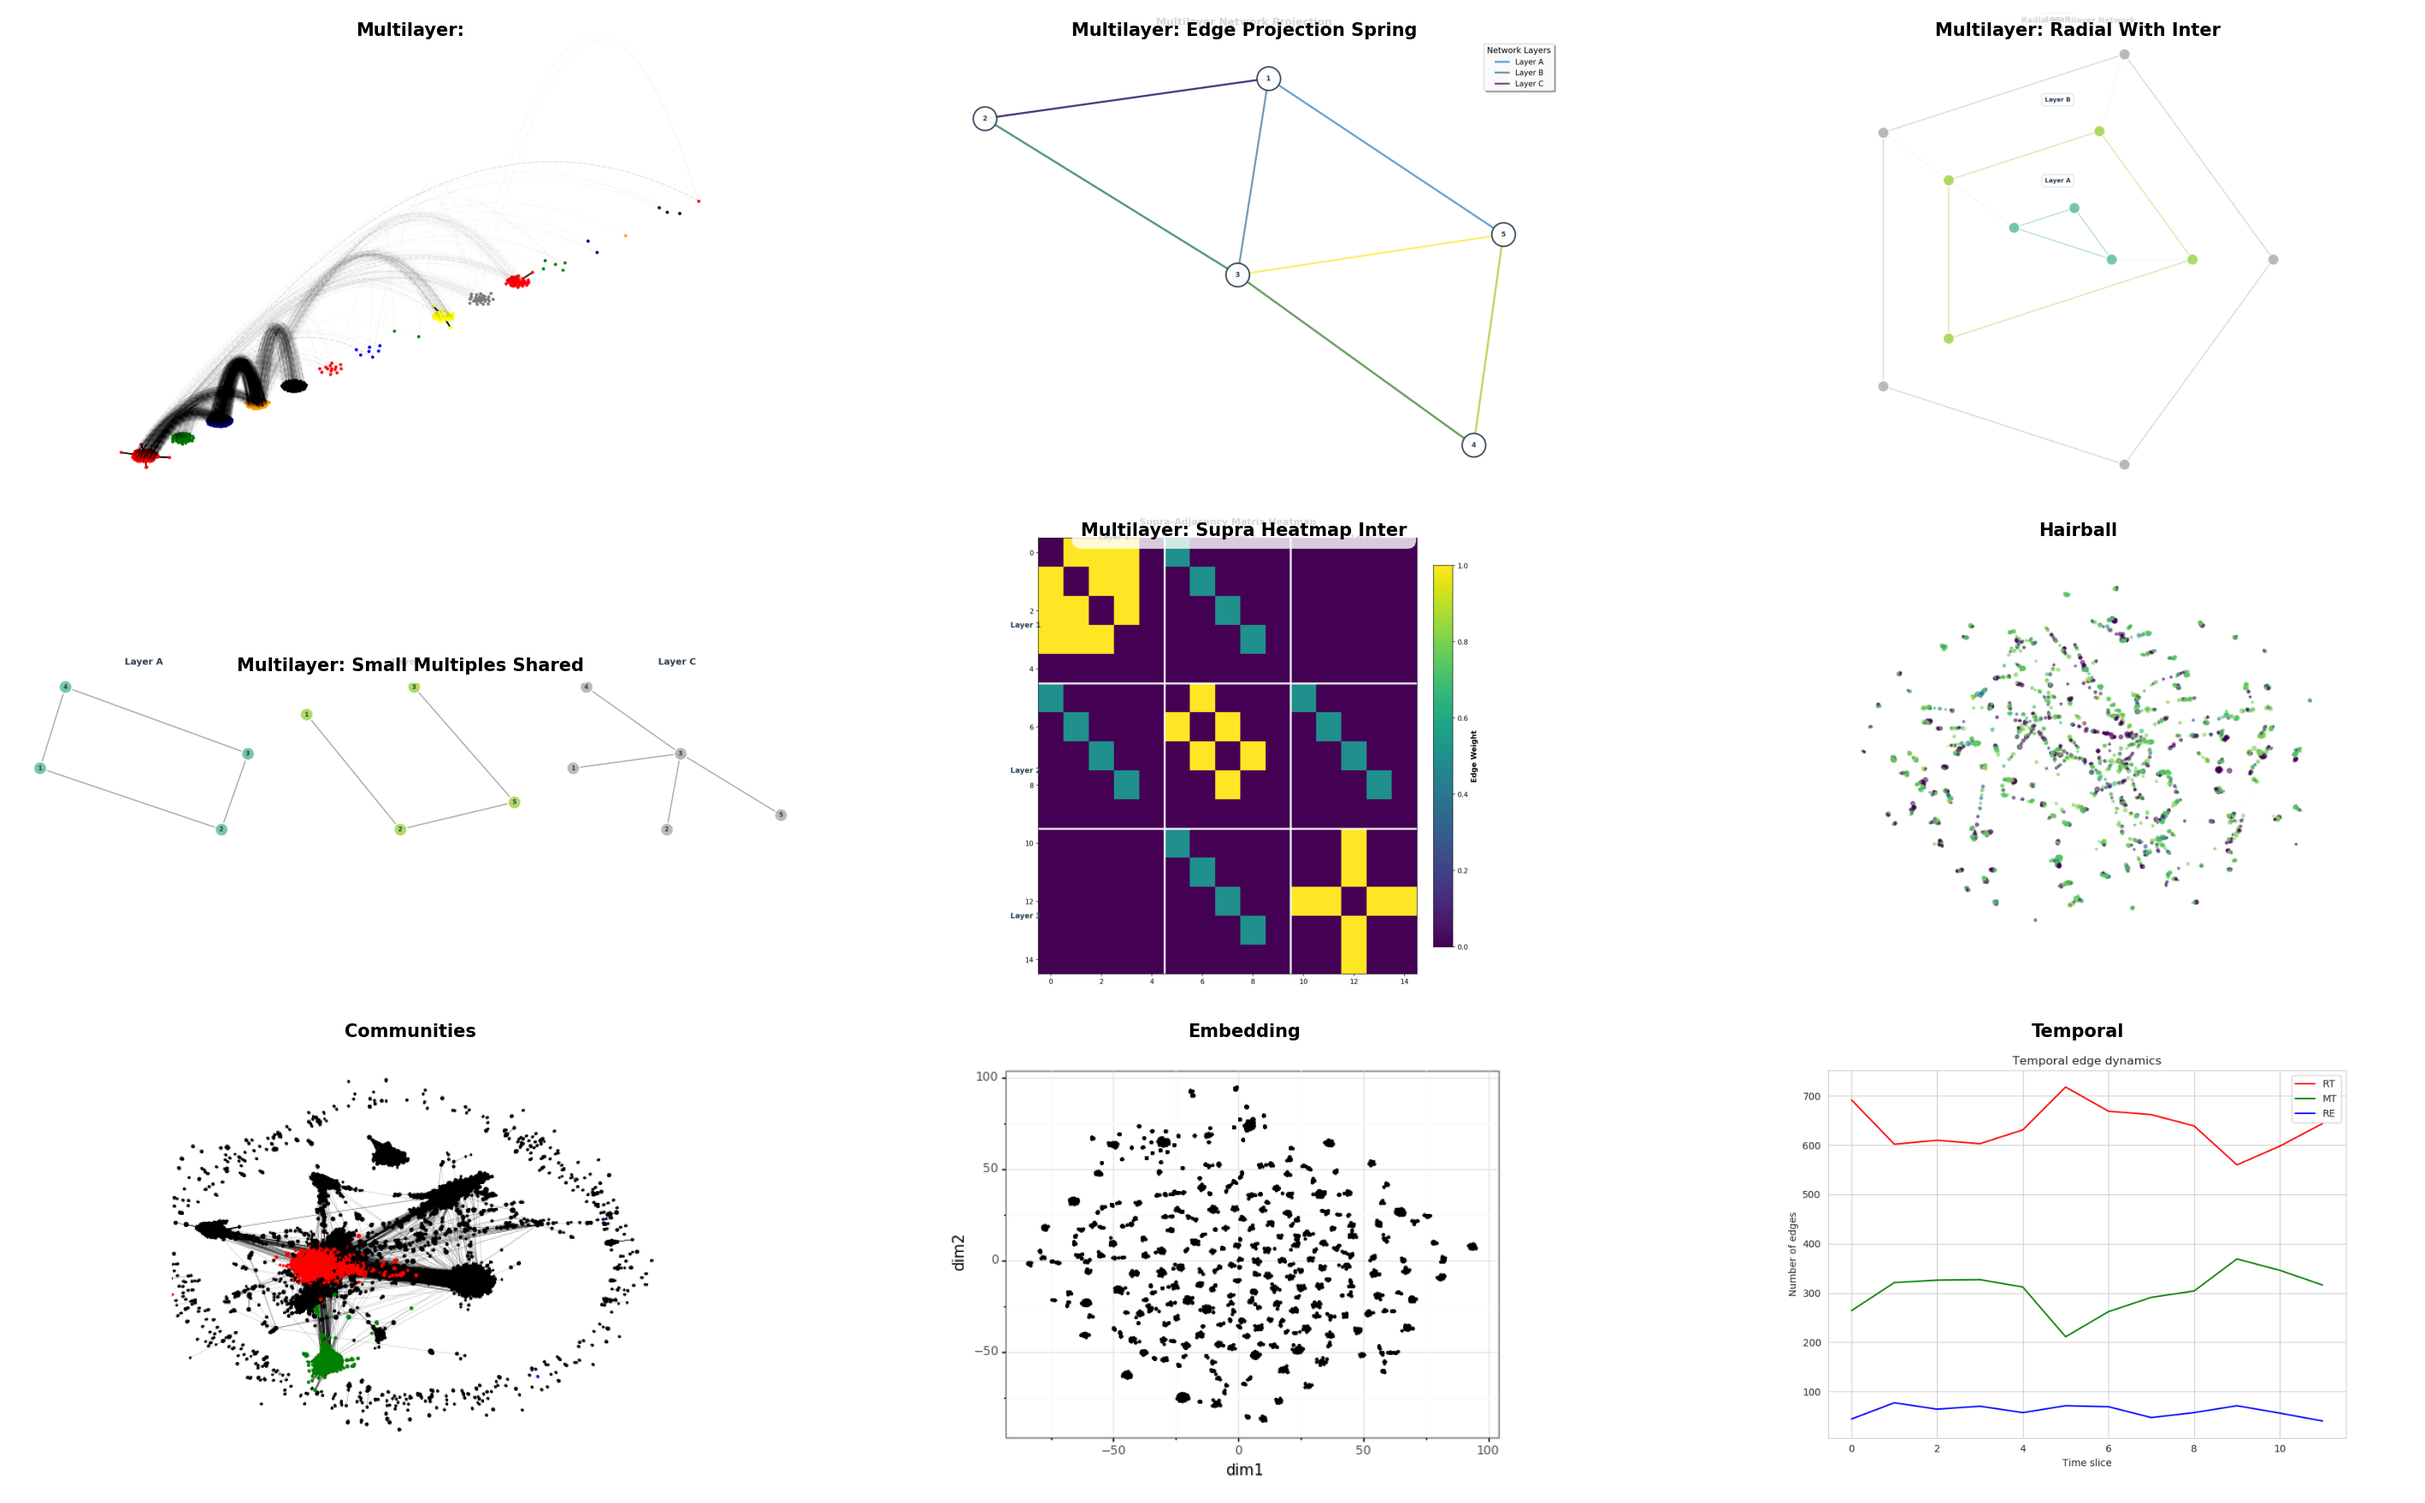
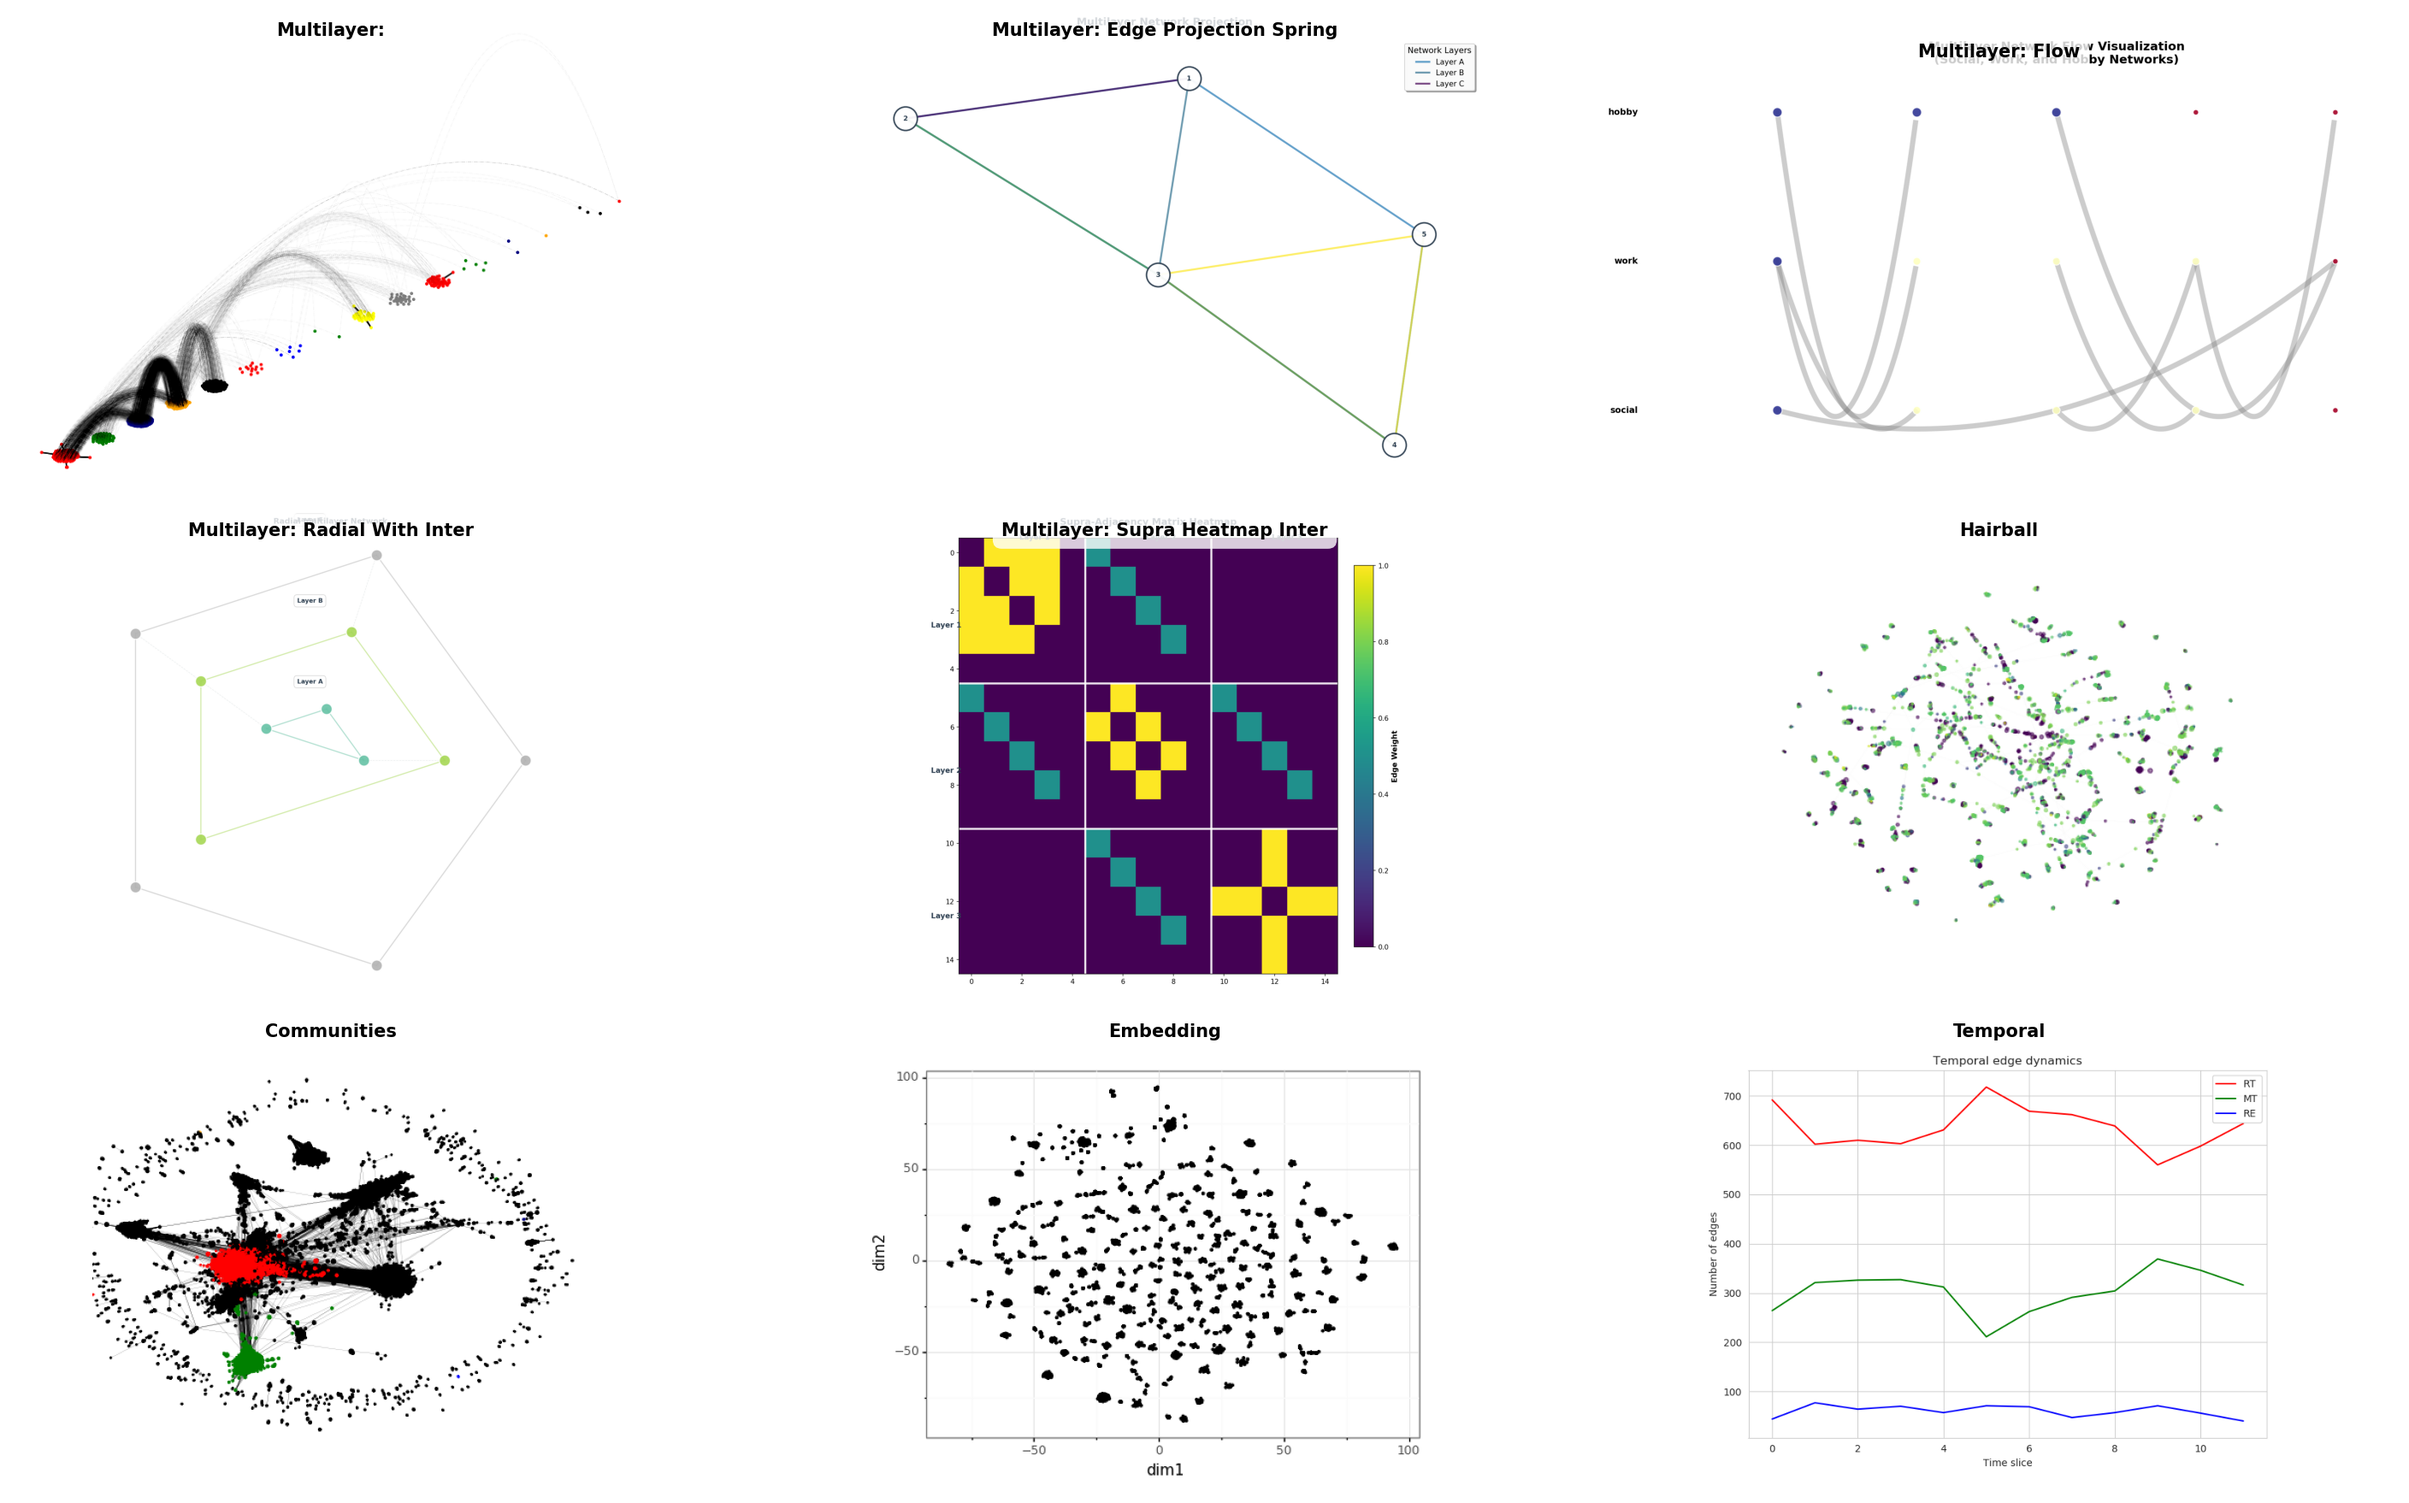
Add flow visualization to README showcase mosaic

diff --git a/create_mosaic_banner.py b/create_mosaic_banner.py
@@ -46,10 +46,10 @@ def create_mosaic_banner():
         # Row 1: Multilayer visualizations
         "multilayer.png",
         "multilayer_edge_projection_spring.png",
-        "multilayer_radial_with_inter.png",
+        "multilayer_flow.png",
         
         # Row 2: Different layout styles
-        "multilayer_small_multiples_shared.png",
+        "multilayer_radial_with_inter.png",
         "multilayer_supra_heatmap_inter.png",
         "hairball.png",
         
@@ -129,11 +129,11 @@ def create_compact_banner():
     # Select 5-6 most visually striking images for a compact banner
     selected_images = [
         "multilayer.png",
+        "multilayer_flow.png",
         "multilayer_edge_projection_spring.png",
         "multilayer_radial_with_inter.png",
         "multilayer_supra_heatmap_inter.png",
         "hairball.png",
-        "communities.png",
     ]
     
     # Create horizontal banner
@@ -197,7 +197,7 @@ def create_showcase_collage():
         (0, 1, 5, 6, "embedding.png", "Node\nEmbeddings"),
         
         # Row 2 - right side
-        (1, 2, 2, 3, "multilayer_small_multiples_shared.png", "Small Multiples\nShared Layout"),
+        (1, 2, 2, 3, "multilayer_flow.png", "Flow Visualization\nAlluvial Style"),
         (1, 2, 3, 4, "multilayer_supra_heatmap_inter.png", "Supra-Adjacency\nHeatmap"),
         (1, 2, 4, 5, "hairball.png", "Complex Network\nVisualization"),
         (1, 2, 5, 6, "temporal.png", "Temporal\nDynamics"),
